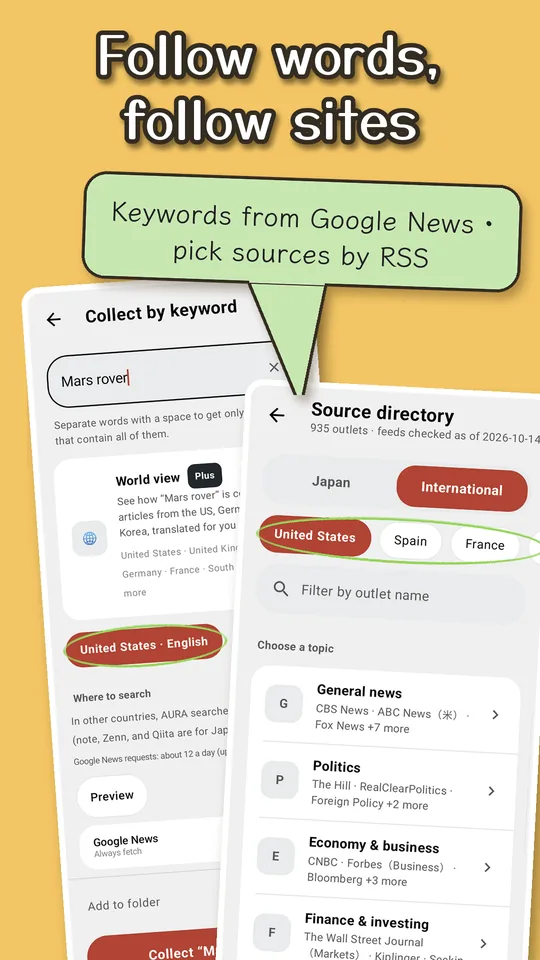
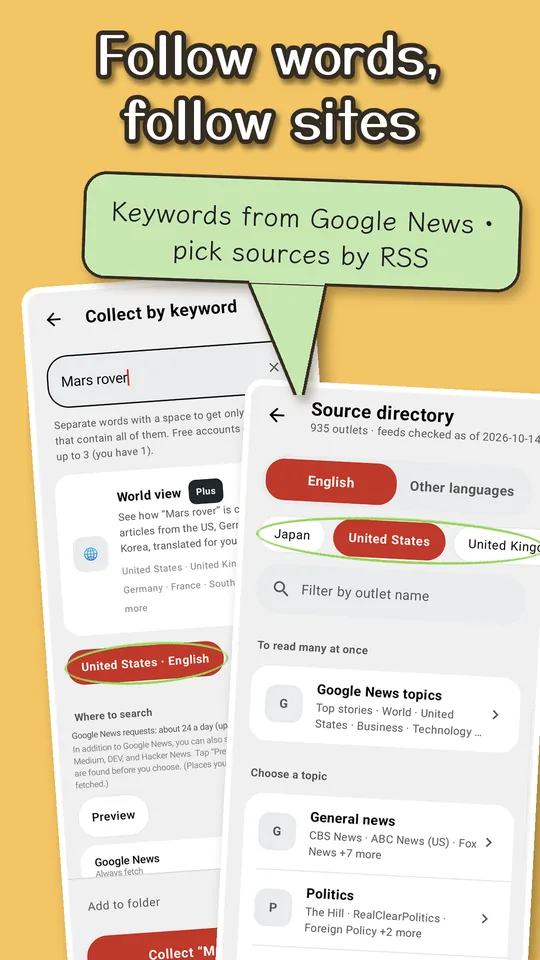
AU-117 E: 英語の掲載の 2 枚目を今の画面で作り直した（サイトの英語のトップ）・英語の使い方の Google News topics に配信元の一覧の写し

diff --git a/i18n/en/docusaurus-plugin-content-docs/current/guide/subscribe.md b/i18n/en/docusaurus-plugin-content-docs/current/guide/subscribe.md
@@ -82,6 +82,8 @@ Searching Google News in other countries (**Other countries**) and **World view*
 In **Source directory**, on the **English** tab, **To read many at once** has **Google News topics**: the official topic feeds from Google News (top stories, world, business, technology, and more).
 Tap one to subscribe. Feeds you already have show **Subscribed**.
 
+![Source directory > English > United States (Google News topics at the top)](/img/guide/en/subscribe-google.jpg)
+
 ## Source directory
 
 If you don't want to look up URLs, tap **Source directory**. Switch between **English** and **Other languages** at the top, choose a country or region, then choose a topic and an outlet.
